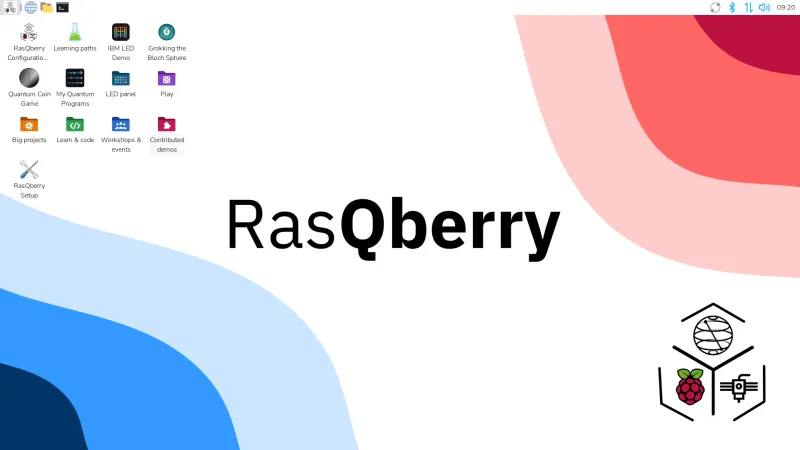
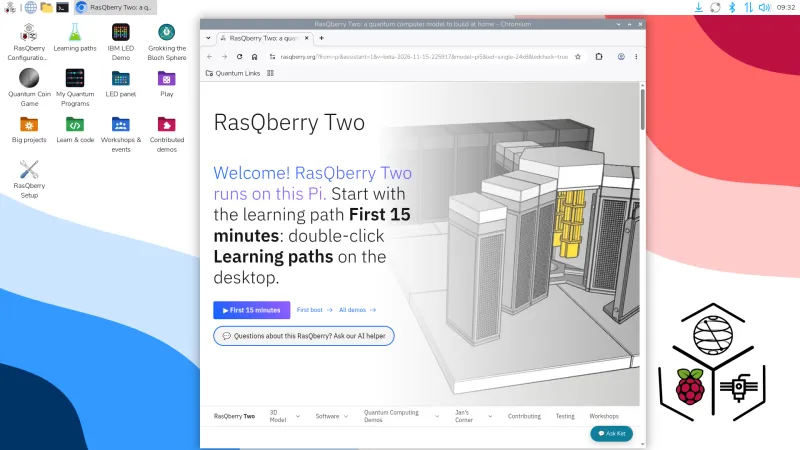
Homepage: fresh screenshots after a clean start (desktop with welcome page, Bloch sphere with tips)
Claude-Session: https://claude.ai/code/session_01NaRLeVCx3uhVyGTNxFksWw

diff --git a/content/index.md b/content/index.md
@@ -67,7 +67,7 @@ LED panel. Made for classrooms, meetups, booths and anyone curious.
 
 <div className="feature-grid">
   <a className="feature" href="/03-quantum-computing-demos/01-demo-list/">
-    <img src="/demo-screenshots/bloch-sphere.webp" width="800" height="745" loading="lazy" alt="Grokking the Bloch Sphere: a qubit's state as an arrow on a sphere, with gate buttons" />
+    <img src="/demo-screenshots/bloch-sphere.webp" width="800" height="463" loading="lazy" alt="Grokking the Bloch Sphere: a qubit as an arrow on a sphere, gate buttons and tips on what to try" />
     <strong>15 demos and games</strong>
     <span>Bloch sphere, quantum coin game, Quantum Lights Out, Qoffee-Maker and more, each one click away.</span>
   </a>
@@ -97,7 +97,7 @@ LED panel. Made for classrooms, meetups, booths and anyone curious.
     <span>Its own Wi-Fi hotspot with a QR code to join, touch mode, a demo loop and Bluetooth speakers.</span>
   </a>
   <a className="feature" href="/02-software/03-ab-boot/">
-    <img src="/demo-screenshots/desktop.webp" width="800" height="450" loading="lazy" alt="The RasQberry desktop with demo icons" />
+    <img src="/demo-screenshots/desktop.webp" width="800" height="450" loading="lazy" alt="The RasQberry desktop after the start: demo icons and the welcome page" />
     <strong>Updates without a new card</strong>
     <span>On cards of 64 GB or more, new releases install over the air and the previous system stays as a fallback.</span>
   </a>
